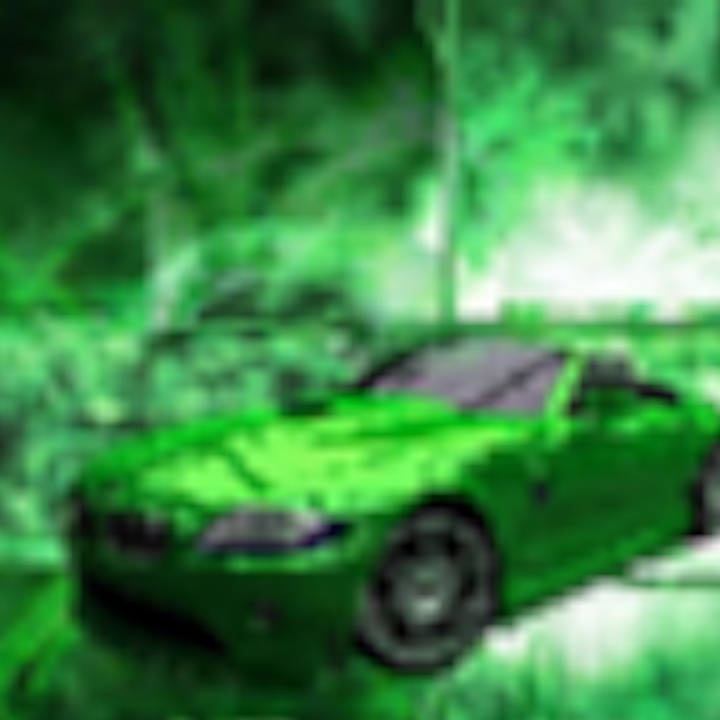
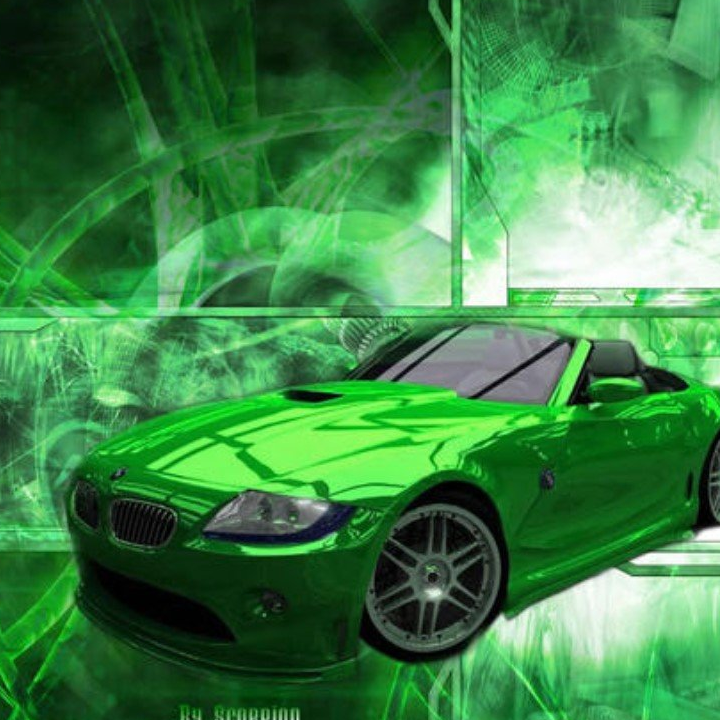
new function ruin_resolution

diff --git a/main.py b/main.py
@@ -99,6 +99,8 @@ def colorize_with_image(image, overlay):
 
     return Image.fromarray(out_array.astype("uint8"), "RGB")
 
+def ruin_resolution(image, power = 3):
+    return image.resize((int(image.size[0] / 2**power), int(image.size[1] / 2**power))).resize((image.size[0], image.size[1]))
 
 
 #everything is subject to change
@@ -110,9 +112,9 @@ with open(f"resources{os.sep}{template_name}.json") as file:
 
 template = Image.open(f"resources{os.sep}{template_data['image']}")
 
-if template_data["jpegify"]:
-    template = jpegify(template)
-
 template = change_color(template, (255, 0, 127))
+
+template = jpegify(template)
+template = ruin_resolution(template)
 
 template.show()
